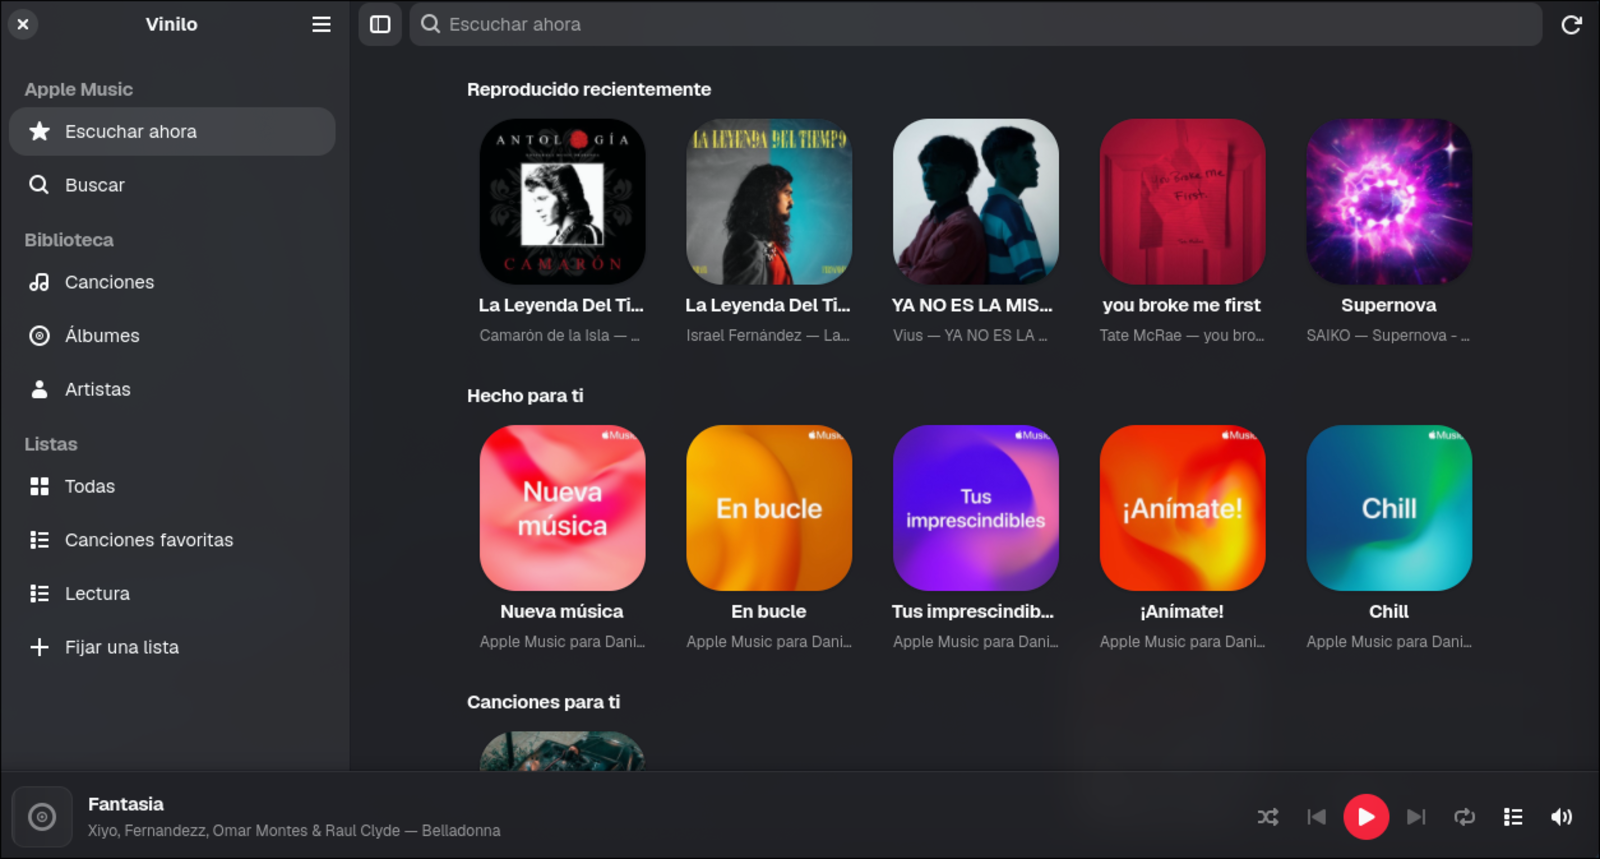
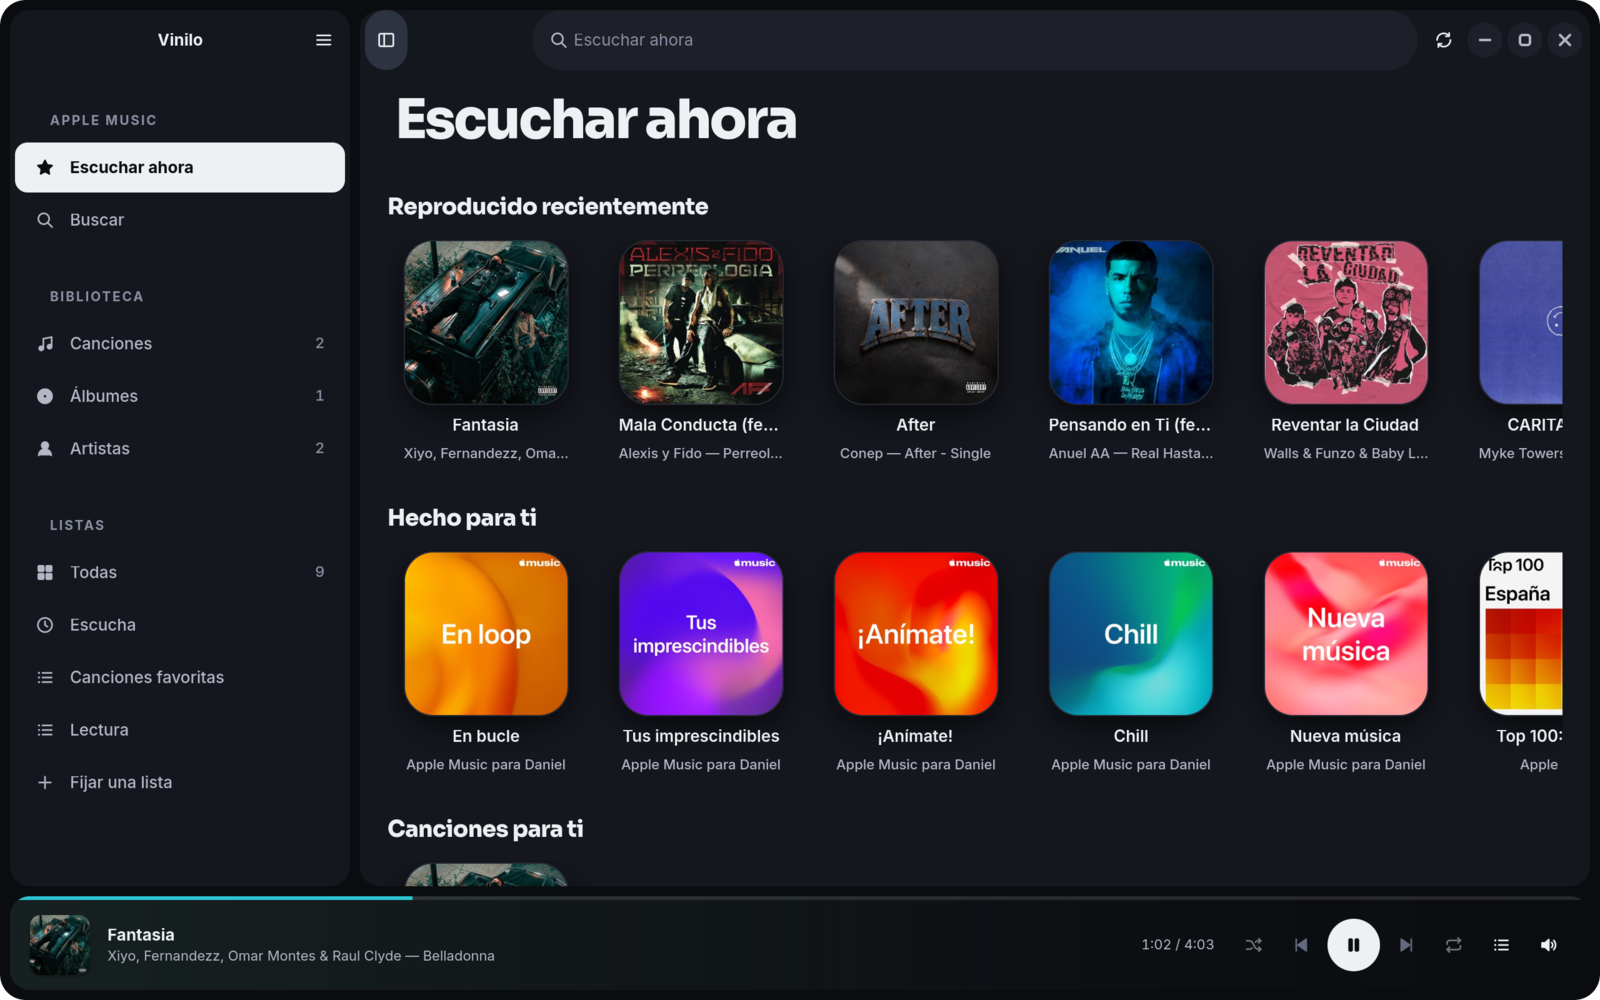
docs: README screenshots and wording for 2.0
The four screenshots are retaken from 2.0 in the Nodalia identity, dark,
with the window's corners transparent: Listen Now, the expanded player
with its queue, a playlist and an album page (Vinilo is on Apple Music on
this machine, so the old Spotify shot became an album page). The README
calls Vinilo a native app in the Nodalia Design Language, not a GNOME
app, and the screenshots guide says how to take the new ones.

diff --git a/README.md b/README.md
@@ -61,20 +61,20 @@ closing the window does not stop the music.
 ## Preview
 
 <p align="center">
-  <img src="docs/screenshots/library.webp" width="48%" alt="Listen Now in Vinilo">
-  <img src="docs/screenshots/player.webp" width="48%" alt="Expanded player with lyrics">
+  <img src="docs/screenshots/library.webp" width="48%" alt="Listen Now in Vinilo 2.0: islands, Sora titles and NDL icons">
+  <img src="docs/screenshots/player.webp" width="48%" alt="Expanded player with the queue">
 </p>
 
 <p align="center">
   <img src="docs/screenshots/playlist.webp" width="48%" alt="Playlist page">
-  <img src="docs/screenshots/albums.webp" width="48%" alt="Spotify playlist in Vinilo">
+  <img src="docs/screenshots/albums.webp" width="48%" alt="An album page">
 </p>
 
 ## Why Vinilo
 
 | Interface | Playback | Desktop |
 | --- | --- | --- |
-| A GNOME app, not a website in a frame | Gapless playback, queue, lyrics and karaoke with a voice level on catalogue tracks | Play, pause and skip from the top bar, lock screen or media keys |
+| A native app in the Nodalia Design Language, not a website in a frame | Gapless playback, queue, lyrics and karaoke with a voice level on catalogue tracks | Play, pause and skip from the top bar, lock screen or media keys |
 | Your library: songs, albums, artists and playlists | The catalogues you already use, searchable from one place | Music keeps going when you close the window |
 | English or Spanish, or the system language | Crossfade, local listening stats, optional Last.fm scrobbling | Open audio files straight from the file manager |
 
@@ -181,7 +181,7 @@ xdg-mime default dev.danielmiguelt.Vinilo.desktop audio/ogg
 ### Development
 
 ```bash
-cargo run                 # GNOME app
+cargo run                 # the app
 make sidecar-run          # hidden player, window visible (DRM isolation)
 make check                # fmt + clippy + tests
 ```

diff --git a/docs/screenshots/README.md b/docs/screenshots/README.md
@@ -20,17 +20,17 @@ cp data/icons/hicolor/128x128/apps/dev.danielmiguelt.Vinilo.png docs/screenshots
 | File | Shows |
 | --- | --- |
 | `library.webp` | Listen Now — recently played, Made for You, the Now Playing bar |
-| `player.webp` | The expanded player: artwork, transport, lyrics |
+| `player.webp` | The expanded player: artwork, transport, the queue |
 | `playlist.webp` | A playlist page: Play and Shuffle, tracks |
-| `albums.webp` | A Spotify playlist — the same shell on another source |
+| `albums.webp` | An album page |
 
 ## Taking them
 
 - **Dark theme**, since that is what the app looks like on a default GNOME
   install and what every shot here uses.
-- Capture the **window, not the screen** — `Alt`+`PrtSc`. GNOME's shadow and
-  rounded corners come along with it, which is what makes a GTK4 app look like
-  one.
+- Capture the **window, not the screen** — `Alt`+`PrtSc` — with its rounded
+  corners transparent around it: the window's own shape is part of the
+  Nodalia look.
 - Play something first, and keep the *same* track across the set. A Now Playing
   bar reading "Nothing playing" undersells every screenshot it appears in, and a
   different track in each one reads as four unrelated apps.
